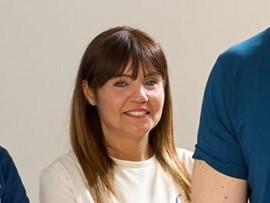
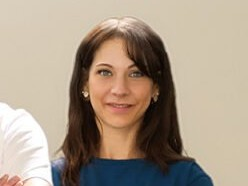
Use correct photo for Valentina
Claude-Session: https://claude.ai/code/session_01N38fah64bsjQySFkYaK4cq

diff --git a/index.html b/index.html
@@ -442,7 +442,7 @@
         </div>
       </div>
       <div class="person">
-        <div class="ph"><img src="img/valentina.jpg" alt="Valentina" style="object-position:50% 30%"></div>
+        <div class="ph"><img src="img/valentina.jpg" alt="Valentina"></div>
         <div class="body">
           <h3>Valentina</h3>
           <div class="role">Personal trainer · Percorsi donna</div>
